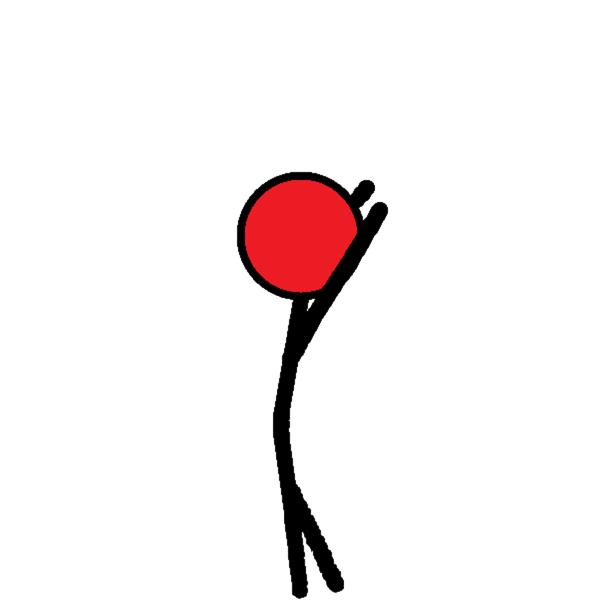
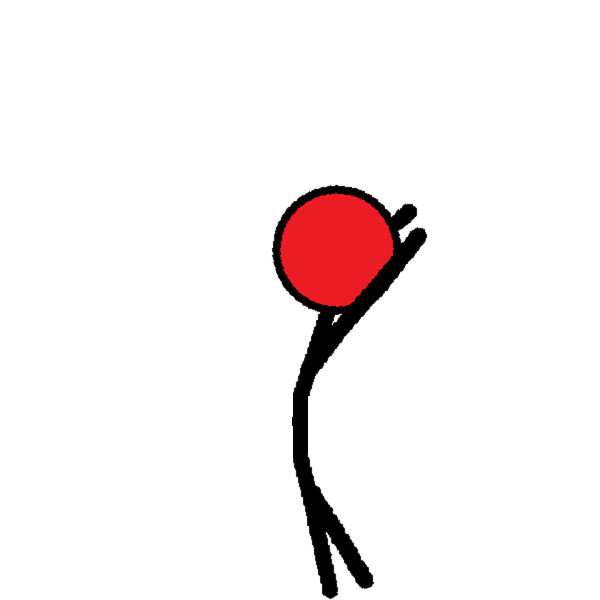
fix: 🐛 position

Changed region(s): [[0.39, 0.27, 0.72, 1.0]]

diff --git a/model/Team.java b/model/Team.java
@@ -12,52 +12,58 @@ public class Team {
 
         double baseY = GameConfig.PLAYER_BASE_Y;
         double netX = GameConfig.NET_X;
-        double netHalfWidth = GameConfig.NET_WIDTH / 2.0;
+        double baseX = GameConfig.NET_X;
+
+        // 因為圖片旁邊有留白，所以允許圖片邊界跨過網子中心 1/3 圖片寬度
+        // 真正是否碰到球，仍然由各角色自己的 hitBox 決定
+        double playerNetOverlap = GameConfig.PLAYER_IMAGE_WIDTH / 3.0;
 
         if (redSide) {
-            double baseX = GameConfig.NET_X;
-
             backPlayer = new BackPlayer("player 1 back.png", baseX + GameConfig.RED_BACK_OFFSET_X, baseY, true);
             setter = new Setter("player 1 S.png", baseX + GameConfig.RED_SETTER_OFFSET_X, baseY, true);
             quickAttacker = new QuickAttacker("player 1 MB.png", baseX + GameConfig.RED_QUICK_OFFSET_X, baseY, true);
             wingSpiker = new WingSpiker("player 1 WS.png", baseX + GameConfig.RED_WING_OFFSET_X, baseY, true);
 
-            setTeamBoundaries(GameConfig.WORLD_LEFT, netX - netHalfWidth);
+            double redMinX = GameConfig.WORLD_LEFT;
+            double redMaxX = netX + playerNetOverlap;
+
+            setTeamBoundaries(redMinX, redMaxX);
             setupRedHitBoxes();
         } else {
-            double baseX = GameConfig.NET_X;
-
             backPlayer = new BackPlayer("player 2 back.png", baseX + GameConfig.BLUE_BACK_OFFSET_X, baseY, false);
             setter = new Setter("player 2 S.png", baseX + GameConfig.BLUE_SETTER_OFFSET_X, baseY, false);
             quickAttacker = new QuickAttacker("player 2 MB.png", baseX + GameConfig.BLUE_QUICK_OFFSET_X, baseY, false);
             wingSpiker = new WingSpiker("player 2 WS.png", baseX + GameConfig.BLUE_WING_OFFSET_X, baseY, false);
 
-            setTeamBoundaries(netX + netHalfWidth, GameConfig.WORLD_RIGHT);
+            double blueMinX = netX - playerNetOverlap;
+            double blueMaxX = GameConfig.WORLD_RIGHT;
+
+            setTeamBoundaries(blueMinX, blueMaxX);
             setupBlueHitBoxes();
         }
     }
 
     private void setTeamBoundaries(double min, double max) {
-        for (Player p : getPlayers()) {
-            p.minX = min;
-            p.maxX = max;
+        for (Player player : getPlayers()) {
+            player.minX = min;
+            player.maxX = max;
         }
     }
 
     private void setupRedHitBoxes() {
         // set(offsetX, offsetY, width, height, arcWidth, arcHeight, rotationDegrees)
-        backPlayer.hitBox.set(21, 50, 28, 10, 8, 8, 20);
-        setter.hitBox.set(21, 14, 28, 20, 8, 8, 0);
-        quickAttacker.hitBox.set(40, 0, 10, 30, 8, 8, 20);
-        wingSpiker.hitBox.set(21, 50, 28, 10, 8, 8, 20);
+        backPlayer.hitBox.set(40, 60, 25, 10, 10, 10, 20);
+        setter.hitBox.set(40, 50, 20, 10, 5, 5, 0);
+        quickAttacker.hitBox.set(50, 30, 10, 30, 10, 10, 40);
+        wingSpiker.hitBox.set(45, 60, 20, 10, 10, 10, 20);
     }
 
     private void setupBlueHitBoxes() {
         // set(offsetX, offsetY, width, height, arcWidth, arcHeight, rotationDegrees)
-        backPlayer.hitBox.set(21, 50, 28, 10, 8, 8, -20);
-        setter.hitBox.set(21, 14, 28, 20, 8, 8, 0);
-        quickAttacker.hitBox.set(20, 0, 10, 30, 8, 8, -20);
-        wingSpiker.hitBox.set(21, 50, 28, 10, 8, 8, -20);
+        backPlayer.hitBox.set(35, 60, 25, 10, 10, 10, -20);
+        setter.hitBox.set(40, 50, 20, 10, 5, 5, 0);
+        quickAttacker.hitBox.set(40, 30, 10, 30, 10, 10, -40);
+        wingSpiker.hitBox.set(35, 60, 20, 10, 10, 10, -20);
     }
 
     public Player[] getPlayers() {
@@ -65,8 +71,8 @@ public class Team {
     }
 
     public void update(TeamInput input) {
-        for (Player p : getPlayers()) {
-            p.update(input);
+        for (Player player : getPlayers()) {
+            player.update(input);
         }
     }
 }

diff --git a/model/GameConfig.java b/model/GameConfig.java
@@ -17,7 +17,7 @@ public final class GameConfig {
     public static final double PLAYER_JUMP_SPEED = -8;
     public static final double DIVE_SPEED = 5.0; ///之後改成撲接時碰撞箱範圍變大，先不動
 
-    public static final double BALL_RADIUS = 14;
+    public static final double BALL_RADIUS = 12;
     public static final double BALL_BOUNCE = 0.72;
     public static final double NET_BOUNCE = 0.4;
 
@@ -28,14 +28,15 @@ public final class GameConfig {
 
     public static final int PLAYER_IMAGE_WIDTH = 100;
     public static final int PLAYER_IMAGE_HEIGHT = 100;
+    public static final double PLAYER_NET_OVERLAP_X = PLAYER_IMAGE_WIDTH / 3.0;
 
     public static final double PLAYER_BASE_Y = FLOOR_Y - PLAYER_IMAGE_HEIGHT;
 
     // red 隊各角色相對基準點的位置
-    public static final double RED_BACK_OFFSET_X = -300 - PLAYER_IMAGE_WIDTH;
-    public static final double RED_SETTER_OFFSET_X = -50 - PLAYER_IMAGE_WIDTH;
-    public static final double RED_QUICK_OFFSET_X = -5 - PLAYER_IMAGE_WIDTH;
-    public static final double RED_WING_OFFSET_X = -167 - PLAYER_IMAGE_WIDTH; //照比例換算 300 * 5/9
+    public static final double RED_BACK_OFFSET_X = -300 - PLAYER_IMAGE_WIDTH + PLAYER_NET_OVERLAP_X;
+    public static final double RED_SETTER_OFFSET_X = -30 - PLAYER_IMAGE_WIDTH + PLAYER_NET_OVERLAP_X;
+    public static final double RED_QUICK_OFFSET_X = -5 - PLAYER_IMAGE_WIDTH + PLAYER_NET_OVERLAP_X;
+    public static final double RED_WING_OFFSET_X = -140 - PLAYER_IMAGE_WIDTH + PLAYER_NET_OVERLAP_X;
     public static final double RED_BACK_SERVE_X = -100;
     public static final double RED_BACK_SERVE_Y = PLAYER_BASE_Y;
     // 發球時，球相對於 red backPlayer 圖片左上角的位置
@@ -43,10 +44,10 @@ public final class GameConfig {
     public static final double RED_SERVE_BALL_OFFSET_Y = -5;
 
     // blue 隊各角色相對基準點的位置
-    public static final double BLUE_BACK_OFFSET_X = 300;
-    public static final double BLUE_SETTER_OFFSET_X = 50;
-    public static final double BLUE_QUICK_OFFSET_X = 5;
-    public static final double BLUE_WING_OFFSET_X = 167; //照比例換算 300 * 5/9
+    public static final double BLUE_BACK_OFFSET_X = 300 - PLAYER_NET_OVERLAP_X;
+    public static final double BLUE_SETTER_OFFSET_X = 30 - PLAYER_NET_OVERLAP_X;
+    public static final double BLUE_QUICK_OFFSET_X = 5 - PLAYER_NET_OVERLAP_X;
+    public static final double BLUE_WING_OFFSET_X = 140 - PLAYER_NET_OVERLAP_X;
     public static final double BLUE_BACK_SERVE_X = SCREEN_WIDTH + 100 - PLAYER_IMAGE_WIDTH;
     public static final double BLUE_BACK_SERVE_Y = PLAYER_BASE_Y;
     // blue 隊發球時，球相對於 blue backPlayer 圖片左上角的位置

diff --git a/model/RallyContactHandler.java b/model/RallyContactHandler.java
@@ -1,9 +1,9 @@
 package model;
 
 public class RallyContactHandler {
-    private static final double SETTER_PASS_POWER = 13.5;
-    private static final double ATTACK_PASS_POWER = 15.5;
-    private static final double BALL_UNSTUCK_DISTANCE = 6.0;
+    private static final double SETTER_PASS_POWER = 10.5;
+    private static final double ATTACK_PASS_POWER = 12.5;
+    private static final double BALL_UNSTUCK_DISTANCE = 5.0;
 
     private final GameModel model;
 

diff --git a/model/WingSpiker.java b/model/WingSpiker.java
@@ -1,8 +1,8 @@
 package model;
 
 public class WingSpiker extends Player {
-    private static final double APPROACH_SPEED = 4.0;
-    private static final double RETURN_SPEED = 4.0;
+    private static final double APPROACH_SPEED = 6.5;
+    private static final double RETURN_SPEED = 6.5;
 
     private final double homeX;
     private boolean previousWingAttack = false;

diff --git a/model/BackPlayer.java b/model/BackPlayer.java
@@ -1,7 +1,7 @@
 package model;
 
 public class BackPlayer extends Player {
-    private static final double BACK_ATTACK_AIR_SPEED = 2.0;
+    private static final double BACK_ATTACK_AIR_SPEED = 2.5;
 
     private final DiveController diveController;
     private boolean previousBackAction = false;